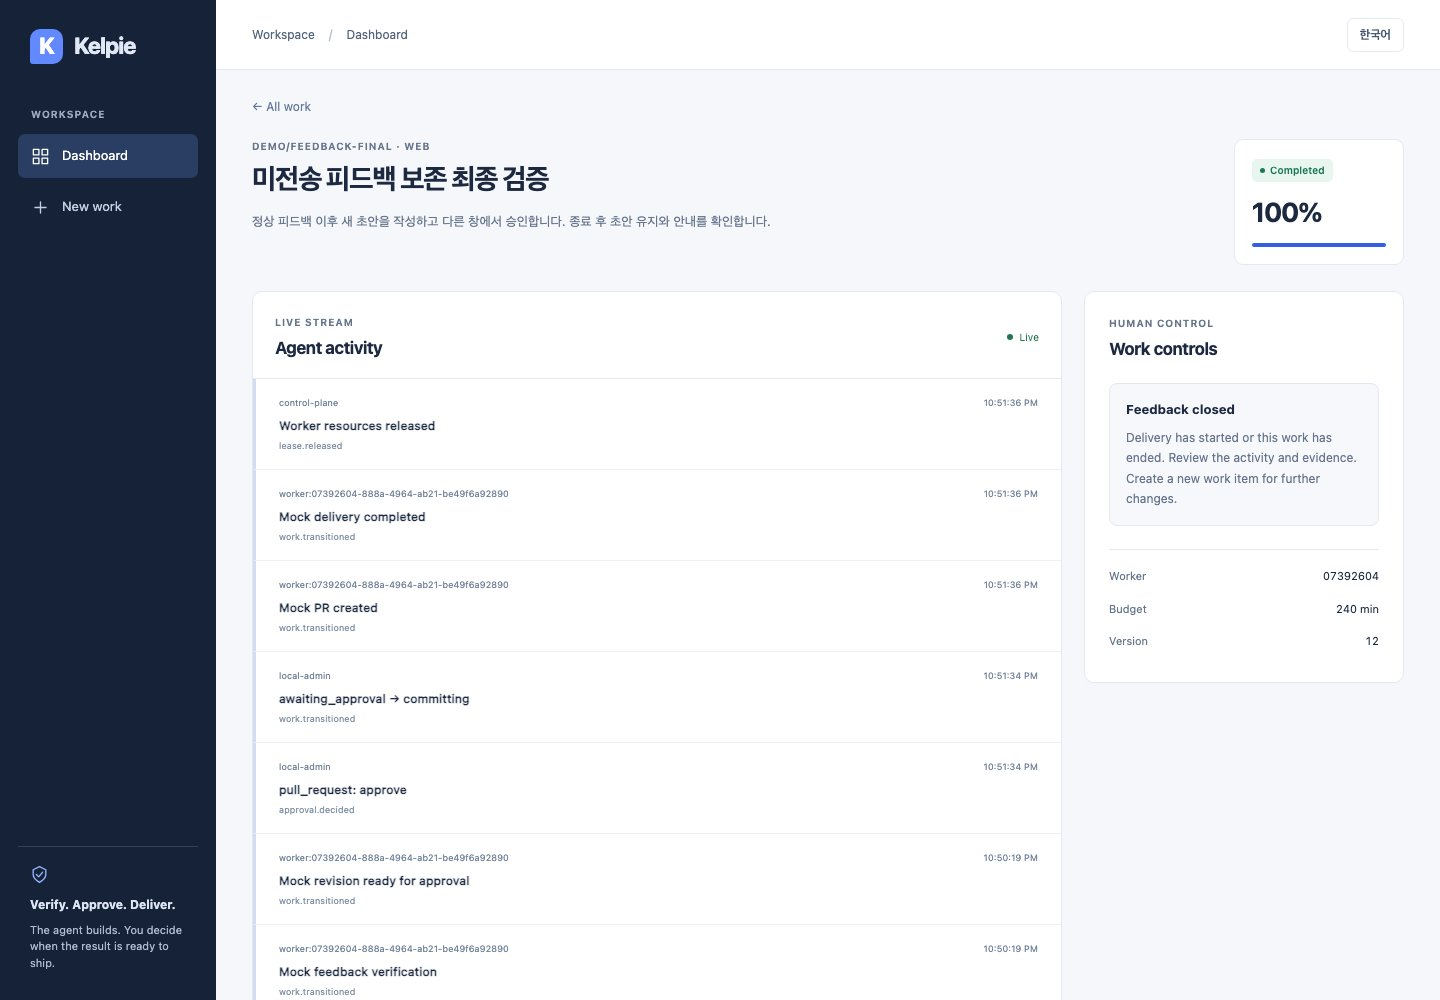
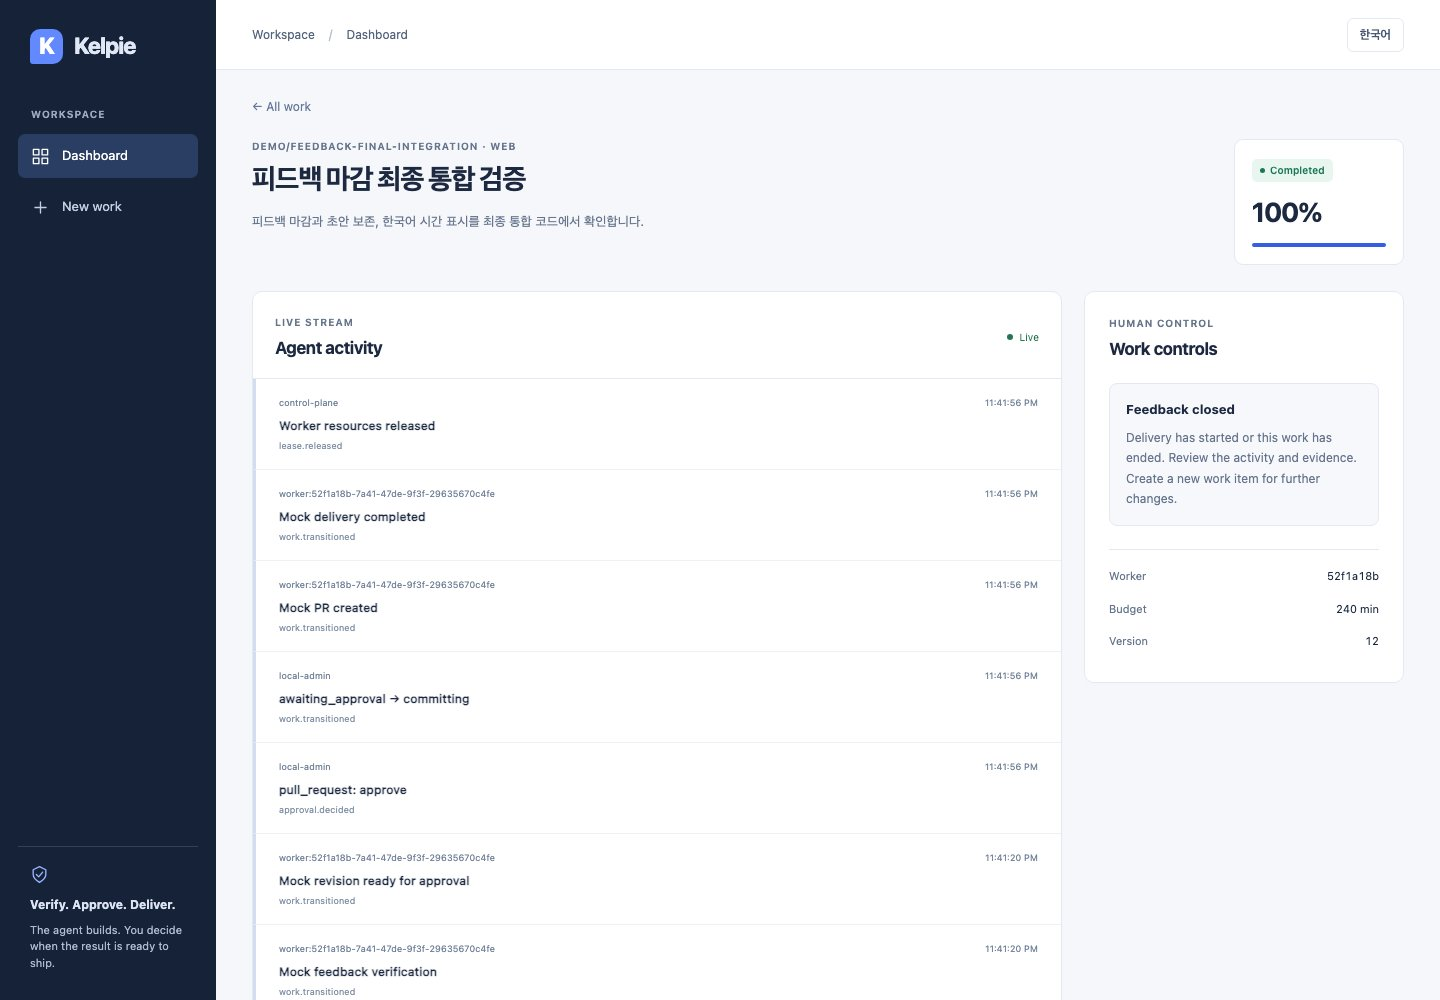
docs: 피드백 마감 통합 코드의 실사용 검증 기록 갱신

diff --git a/docs/en/feedback-lifecycle.md b/docs/en/feedback-lifecycle.md
@@ -32,14 +32,16 @@ A stale submission rejected with `409` refreshes the work and shows an unsent no
 ## Verification
 
 - Before the fix, ten regression cases failed: Web/Slack × five closed states.
-- `make test`: API 229 (including real PostgreSQL locking tests, no skips), Runner 6, Web 27 plus type checking, Worker/Gateway Go tests passed.
+- `make test`: API 229 (including real PostgreSQL locking tests, no skips), Runner 6, Web 30 plus type checking, Worker/Gateway Go tests passed.
 - `make lint`, `npm run build --prefix apps/web`: passed.
-- `npm run test:e2e --prefix apps/web`: ten passed, final local run 53.8 seconds. Each invocation provisions a fresh API/database and single-slot Mock Worker.
+- `npm run test:e2e --prefix apps/web`: twelve passed on the integrated code, final local run about 1.1 minutes. Each invocation provisions a fresh API/database and single-slot Mock Worker.
 - After real API/Worker approval and completion, a browser with its SSE stream disconnected receives 409 for late feedback and retains a selectable/copyable draft. Live closure also verifies focus/draft preservation and removal of the old success notice.
 - Five closed states × both locales, 390px overflow and evidence links additionally use explicit presentation response fixtures. These are not proof of actual failed/cancelled execution.
 - In a separate local SQLite API + two scoped-auth Mock Workers + production Web build, used the Orca browser to create work, send valid feedback, re-verify and enter a new draft. Approved the same work in English using Chrome Computer-use, then directly checked SSE closure, draft preservation and removal of send controls in Korean.
 - The final real work is `completed`, version 12, with one accepted feedback event. Late feedback returns 409 without changing work/events, and both Workers have all resources restored. No normal-flow browser console errors or request/page errors in separate English/390px Chromium renders.
 - Hands-on use exposed a stale success notice. Fixed it, rebuilt the production Web bundle and repeated the cross-browser journey.
+- The initial PR CI passed, but log review exposed five Korean time hydration errors, so merging was paused. Merged and integrated the separate [time formatting fix and global browser error guard](time-hydration.md) first. Every E2E now fails on unhandled page errors.
+- After full verification on integration commit `69958be`, rebuilt the production bundle and isolated runtime. Repeated creation, feedback, re-verification, new draft, approval and completion in Orca, then checked the completed English view in actual Chrome. Final images and state/event/resource assertions come from this integrated run; Korean timestamps match browser-local formatting.
 
 Before/after images use different synthetic work items. The before image reuses the existing dashboard verification's completed view. The after draft view was captured directly in Orca; English/390px images render the same production Web build in a separate Chromium browser.
 
